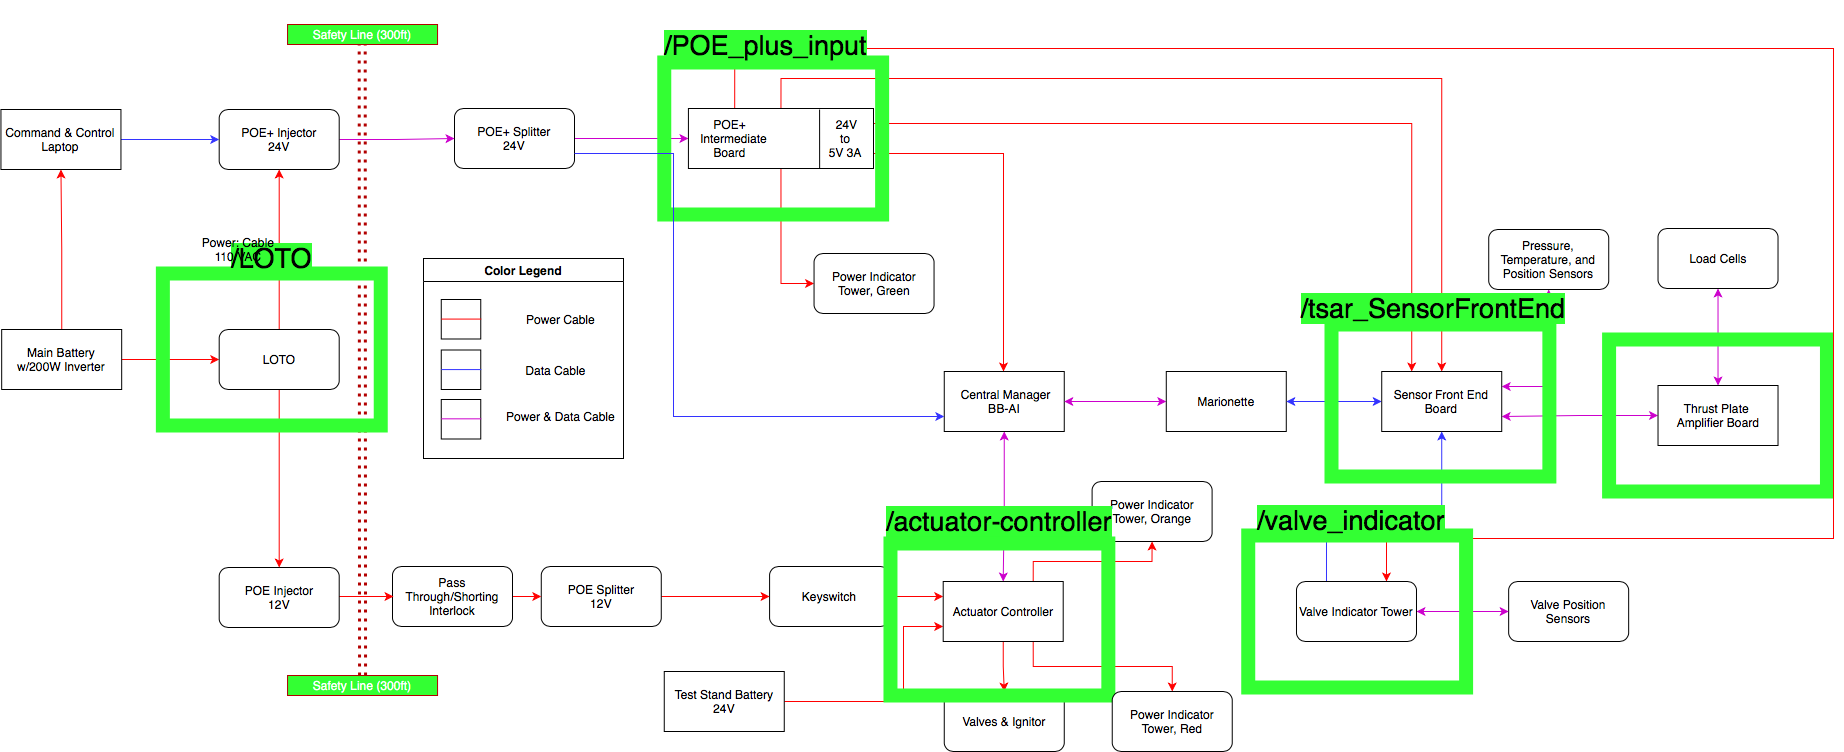
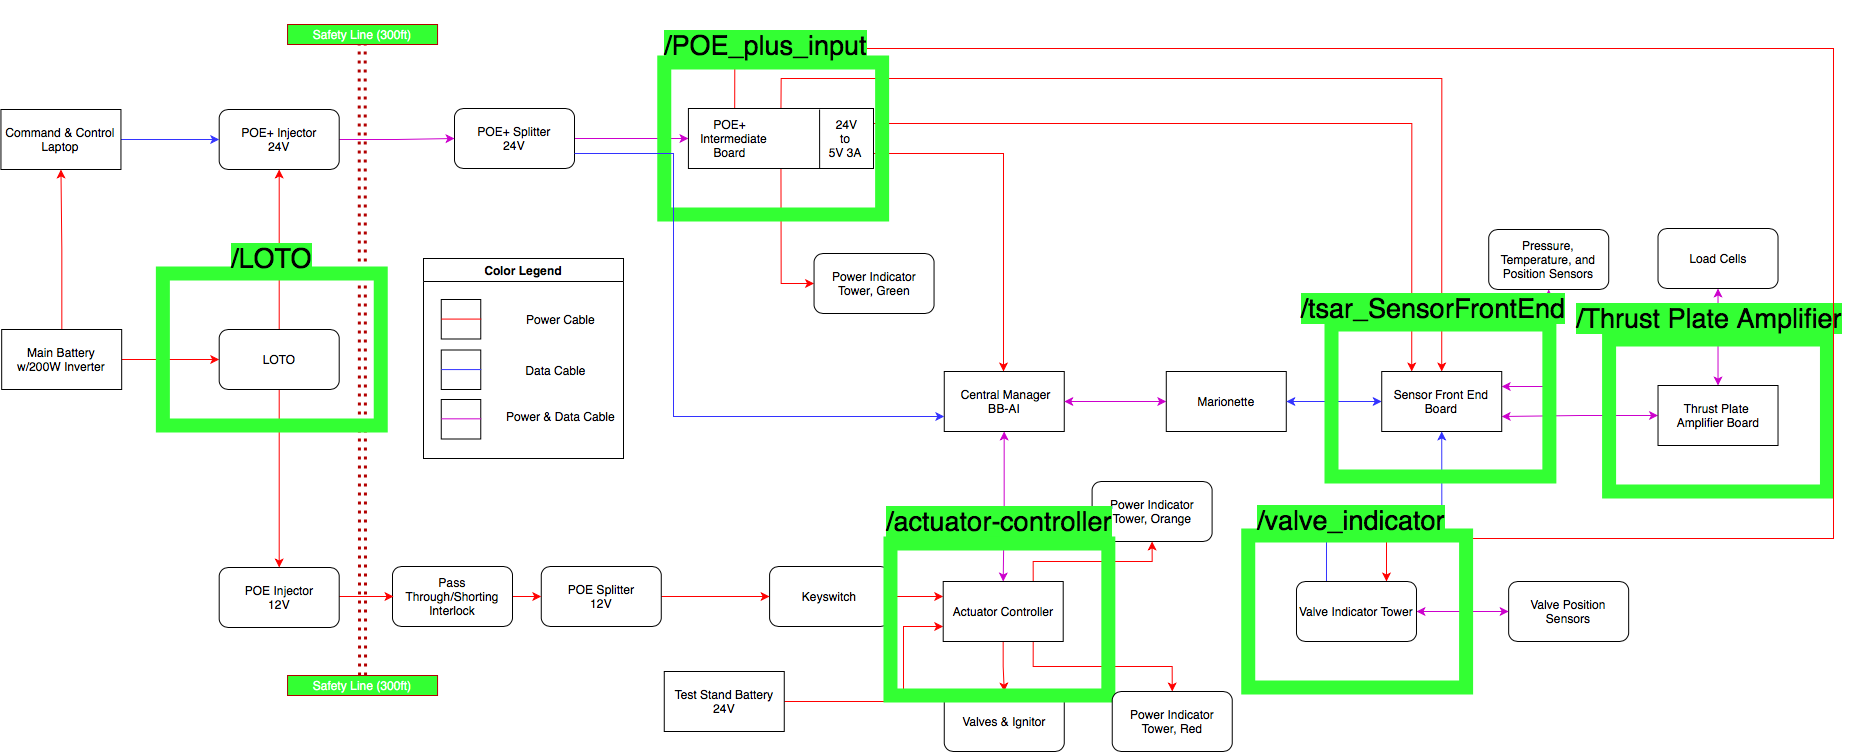
Block Diagrams and README's updated

diff --git a/tsar_SensorFrontEnd/README.md b/tsar_SensorFrontEnd/README.md
@@ -4,7 +4,7 @@ The Sensor Front End board is an intermediate board which connects various test 
 
 The adc channels on the Marionette sample 12-bits at upto 1Msps. The Front End board adc channels sample 16-bits at 100ksps, which is sent to the Marionette over SPI.
 
-There are 18 channels which can be configured by the user for the desired sensor.  The channels are configurable by setting two 3-pin jumpers and one resistor per channel.  The first jumper connects the appropriate power, either 5V on pin 1 or 12V on pin 3.  The second jumper connects the channel output before or after the sensor connection.  For variable current sensors the jumper should be placed between pins 2 and 3 and the NP resistor connected to pin 3 should be chosen to set the maximum output voltage at 3V, the NP resistor pads from power to the sensor connector should be bridged.  For variable voltage sensors the jumper should be placed between pins 1 and 2 with the appropriate Value resistor placed between the locking connector and the power jumper.  Pin 1 on each jumper can be identified by the JPx on the silkscreen which is located closest to pin 1.
+## Sensor Front End Block Diagram
 
-When assembling this board it is recommended to follow the process outlined in the “Test Plan” portion of the Final Project Report, located in the 2019-2020 Capstone subfolder of the TSAR folder in the PSAS shared drive. Datasheets and characterization for currently selected sensors can be found in the Sensors folder with the previously mentioned capstone folder. 
+![Level 1 Block Diagram](https://github.com/psas/tsar-hardware/blob/master/images/Psensor_front_block.png.png?raw=true)
 
